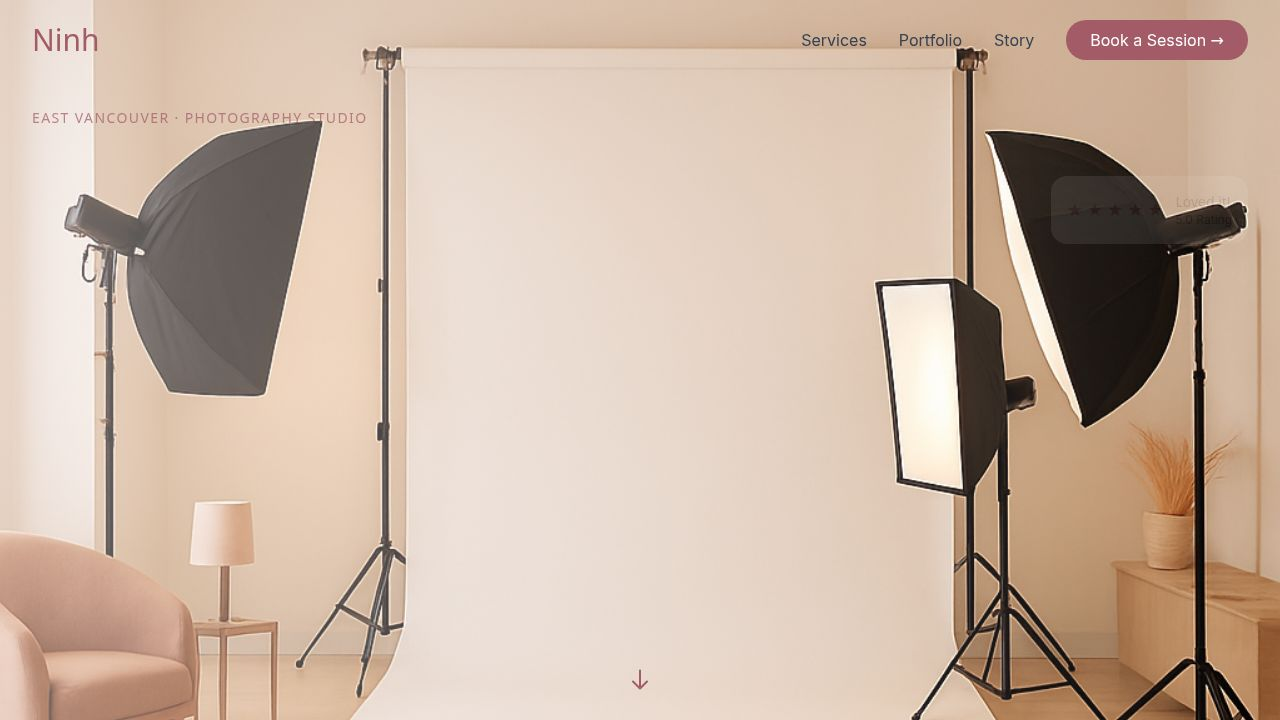
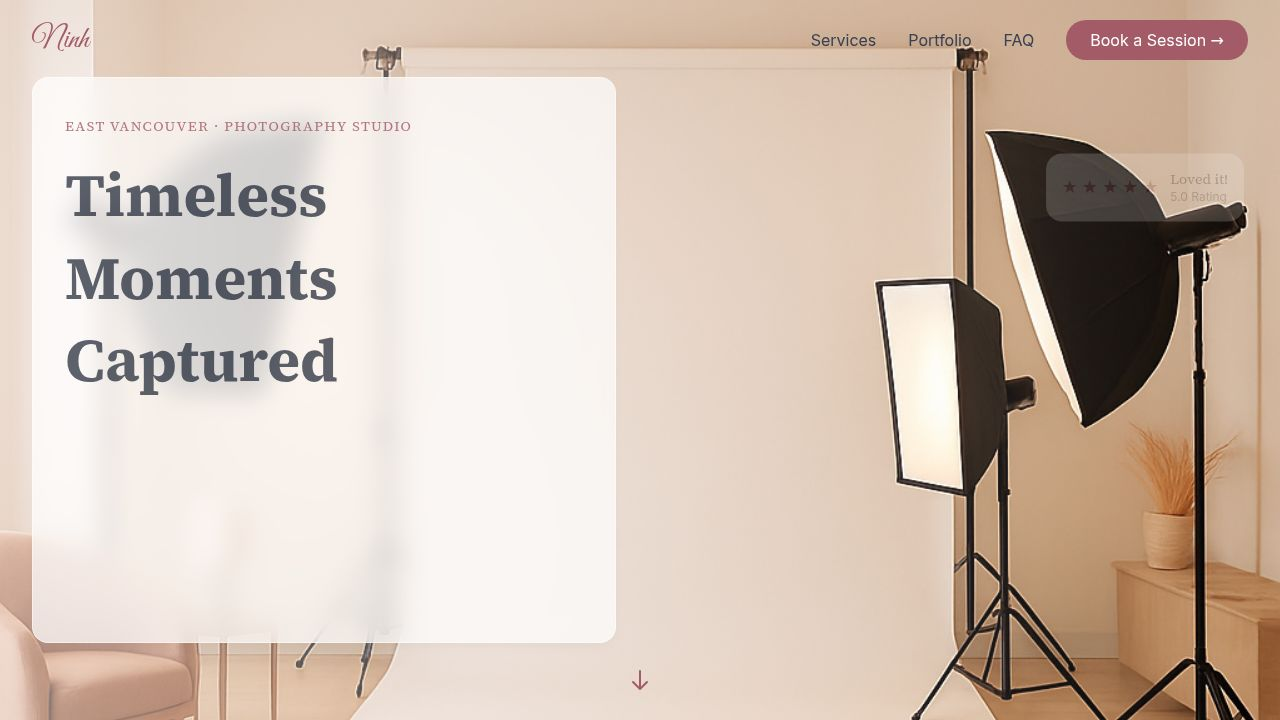
Improve hero section readability and add new content sections
Integrate "How It Works" and "FAQ" sections, enhance hero section's visual clarity with a frosted glass effect and adjusted typography, and update navigation links from "Story" to "FAQ".

Replit-Commit-Author: Agent
Replit-Commit-Session-Id: b865452f-30fb-4e5b-b179-8529b5a454c2
Replit-Commit-Checkpoint-Type: full_checkpoint
Replit-Commit-Event-Id: fed2d3ec-1cab-4ece-8e77-192494f4eb0c
Replit-Commit-Screenshot-Url: https://storage.googleapis.com/screenshot-production-us-central1/e88b9254-c35e-4ace-a5ce-0fc161e2d8ee/b865452f-30fb-4e5b-b179-8529b5a454c2/LNhC5Pv
Replit-Helium-Checkpoint-Created: true

diff --git a/artifacts/ninh-studio/src/components/sections/HowItWorks.tsx b/artifacts/ninh-studio/src/components/sections/HowItWorks.tsx
@@ -1,0 +1,97 @@
+import { motion } from 'framer-motion'
+import { staggerContainerVariants, fadeInVariants } from '@/lib/animations'
+
+const steps = [
+  {
+    number: '01',
+    title: 'Book Your Session',
+    description:
+      'Choose your session type and date through our contact form. We will confirm within 24 hours and send a prep guide.',
+    icon: (
+      <svg className="w-8 h-8" fill="none" stroke="currentColor" viewBox="0 0 24 24">
+        <path strokeLinecap="round" strokeLinejoin="round" strokeWidth={1.5} d="M8 7V3m8 4V3m-9 8h10M5 21h14a2 2 0 002-2V7a2 2 0 00-2-2H5a2 2 0 00-2 2v12a2 2 0 002 2z" />
+      </svg>
+    ),
+  },
+  {
+    number: '02',
+    title: 'The Photo Session',
+    description:
+      'Arrive at our East Vancouver studio. We will handle lighting, direction, and styling so you can relax and be yourself.',
+    icon: (
+      <svg className="w-8 h-8" fill="none" stroke="currentColor" viewBox="0 0 24 24">
+        <path strokeLinecap="round" strokeLinejoin="round" strokeWidth={1.5} d="M3 9a2 2 0 012-2h.93a2 2 0 001.664-.89l.812-1.22A2 2 0 0110.07 4h3.86a2 2 0 011.664.89l.812 1.22A2 2 0 0018.07 7H19a2 2 0 012 2v9a2 2 0 01-2 2H5a2 2 0 01-2-2V9z" />
+        <path strokeLinecap="round" strokeLinejoin="round" strokeWidth={1.5} d="M15 13a3 3 0 11-6 0 3 3 0 016 0z" />
+      </svg>
+    ),
+  },
+  {
+    number: '03',
+    title: 'Your Gallery',
+    description:
+      'Receive professionally edited high-resolution photos within 5–7 days. Download, share, and print directly from your private gallery.',
+    icon: (
+      <svg className="w-8 h-8" fill="none" stroke="currentColor" viewBox="0 0 24 24">
+        <path strokeLinecap="round" strokeLinejoin="round" strokeWidth={1.5} d="M4 16l4.586-4.586a2 2 0 012.828 0L16 16m-2-2l1.586-1.586a2 2 0 012.828 0L20 14m-6-6h.01M6 20h12a2 2 0 002-2V6a2 2 0 00-2-2H6a2 2 0 00-2 2v12a2 2 0 002 2z" />
+      </svg>
+    ),
+  },
+]
+
+export function HowItWorks() {
+  return (
+    <section id="process" className="py-20 bg-canvas-white">
+      <div className="max-w-7xl mx-auto px-4 sm:px-6 lg:px-8">
+        <motion.div
+          initial={{ opacity: 0, y: 20 }}
+          whileInView={{ opacity: 1, y: 0 }}
+          transition={{ duration: 0.8 }}
+          viewport={{ once: true }}
+          className="text-center mb-16"
+        >
+          <h2 className="text-4xl sm:text-5xl font-serif font-bold text-gray-900 mb-4">
+            How It Works
+          </h2>
+          <p className="text-lg text-gray-600 max-w-2xl mx-auto">
+            Three simple steps from booking to your final photos
+          </p>
+        </motion.div>
+
+        <motion.div
+          variants={staggerContainerVariants}
+          initial="hidden"
+          whileInView="visible"
+          viewport={{ once: true }}
+          className="grid grid-cols-1 md:grid-cols-3 gap-8 relative"
+        >
+          {/* connector line on desktop */}
+          <div className="hidden md:block absolute top-24 left-[16.66%] right-[16.66%] h-px bg-accent-rose/30" />
+
+          {steps.map((step) => (
+            <motion.div
+              key={step.number}
+              variants={fadeInVariants}
+              className="relative text-center"
+            >
+              <div className="inline-flex items-center justify-center w-16 h-16 rounded-full bg-accent-rose text-white mb-6">
+                {step.icon}
+              </div>
+
+              <div className="inline-block px-3 py-1 mb-4 text-sm font-serif text-accent-rose bg-accent-rose/10 rounded-full">
+                Step {step.number}
+              </div>
+
+              <h3 className="text-2xl font-serif font-bold text-gray-900 mb-3">
+                {step.title}
+              </h3>
+
+              <p className="text-gray-600 leading-relaxed max-w-sm mx-auto">
+                {step.description}
+              </p>
+            </motion.div>
+          ))}
+        </motion.div>
+      </div>
+    </section>
+  )
+}

diff --git a/artifacts/ninh-studio/src/components/sections/FAQ.tsx b/artifacts/ninh-studio/src/components/sections/FAQ.tsx
@@ -1,0 +1,76 @@
+import { useState } from 'react'
+import { motion, AnimatePresence } from 'framer-motion'
+import { FAQ_ITEMS } from '@/lib/constants'
+
+export function FAQ() {
+  const [openIndex, setOpenIndex] = useState<number | null>(null)
+
+  const toggle = (index: number) => {
+    setOpenIndex(openIndex === index ? null : index)
+  }
+
+  return (
+    <section id="faq" className="py-20 bg-canvas-ivory">
+      <div className="max-w-3xl mx-auto px-4 sm:px-6 lg:px-8">
+        <motion.div
+          initial={{ opacity: 0, y: 20 }}
+          whileInView={{ opacity: 1, y: 0 }}
+          transition={{ duration: 0.8 }}
+          viewport={{ once: true }}
+          className="text-center mb-16"
+        >
+          <h2 className="text-4xl sm:text-5xl font-serif font-bold text-gray-900 mb-4">
+            Frequently Asked Questions
+          </h2>
+          <p className="text-lg text-gray-600">
+            Everything you need to know before booking
+          </p>
+        </motion.div>
+
+        <div className="space-y-4">
+          {FAQ_ITEMS.map((item, index) => (
+            <motion.div
+              key={index}
+              initial={{ opacity: 0, y: 10 }}
+              whileInView={{ opacity: 1, y: 0 }}
+              transition={{ duration: 0.4, delay: index * 0.1 }}
+              viewport={{ once: true }}
+              className="bg-white rounded-lg shadow-sm overflow-hidden"
+            >
+              <button
+                onClick={() => toggle(index)}
+                className="w-full flex items-center justify-between p-6 text-left hover:bg-gray-50 transition-colors"
+              >
+                <span className="font-serif font-bold text-lg text-gray-900 pr-4">
+                  {item.question}
+                </span>
+                <span
+                  className={`flex-shrink-0 text-accent-rose text-2xl transition-transform duration-300 ${
+                    openIndex === index ? 'rotate-45' : ''
+                  }`}
+                >
+                  +
+                </span>
+              </button>
+
+              <AnimatePresence>
+                {openIndex === index && (
+                  <motion.div
+                    initial={{ height: 0, opacity: 0 }}
+                    animate={{ height: 'auto', opacity: 1 }}
+                    exit={{ height: 0, opacity: 0 }}
+                    transition={{ duration: 0.3, ease: 'easeInOut' }}
+                  >
+                    <div className="px-6 pb-6 text-gray-600 leading-relaxed">
+                      {item.answer}
+                    </div>
+                  </motion.div>
+                )}
+              </AnimatePresence>
+            </motion.div>
+          ))}
+        </div>
+      </div>
+    </section>
+  )
+}

diff --git a/artifacts/ninh-studio/src/lib/constants.ts b/artifacts/ninh-studio/src/lib/constants.ts
@@ -72,3 +72,30 @@ export const PORTFOLIO_IMAGES = [
   { id: 5, alt: 'Professional headshots', title: 'Headshots' },
   { id: 6, alt: 'Creative photography', title: 'Creative Concepts' },
 ]
+
+export const FAQ_ITEMS = [
+  {
+    question: 'How far in advance should I book?',
+    answer: 'We recommend booking at least 2–3 weeks in advance, especially for weekends and holidays. Last-minute sessions can sometimes be accommodated depending on availability.',
+  },
+  {
+    question: 'How many photos will I receive?',
+    answer: 'Each session includes a curated gallery of 15–25 professionally edited high-resolution images. You can purchase additional edits or extended galleries if desired.',
+  },
+  {
+    question: 'How long until I receive my photos?',
+    answer: 'Standard turnaround is 5–7 business days. Rush delivery (48 hours) is available for an additional fee.',
+  },
+  {
+    question: 'Can I bring outfit changes?',
+    answer: 'Absolutely. Most sessions allow 2–3 outfit changes. The studio has a private changing area and full-length mirror. We will discuss wardrobe options during your pre-session consultation.',
+  },
+  {
+    question: 'Do you provide hair and makeup?',
+    answer: 'Hair and makeup services are available as an add-on for $75. We partner with a professional MUA who can meet you at the studio 30 minutes before your session.',
+  },
+  {
+    question: 'What is your cancellation policy?',
+    answer: 'Rescheduling is free with 48 hours notice. Cancellations within 48 hours forfeit the 50% deposit. We understand life happens, so we will always try to find an alternative date.',
+  },
+]

diff --git a/artifacts/ninh-studio/src/components/sections/HeroSection.tsx b/artifacts/ninh-studio/src/components/sections/HeroSection.tsx
@@ -1,5 +1,5 @@
 import { motion } from 'framer-motion'
-import { textRevealVariants, staggerContainerVariants, kenBurnsVariants, clipPathRevealVariants } from '@/lib/animations'
+import { textRevealVariants, staggerContainerVariants, kenBurnsVariants, fadeInVariants } from '@/lib/animations'
 
 export function HeroSection() {
   const scrollToSection = (sectionId: string) => {
@@ -27,8 +27,7 @@ export function HeroSection() {
         />
       </motion.div>
 
-      <div className="absolute inset-0 bg-gradient-to-r from-canvas-blush/60 to-transparent z-10" />
-      <div className="absolute inset-0 bg-gradient-to-t from-black/25 via-transparent to-transparent z-10" />
+      <div className="absolute inset-0 bg-gradient-to-r from-canvas-blush/50 via-canvas-blush/20 to-transparent z-10" />
 
       <div className="relative z-20 h-full flex items-center">
         <div className="max-w-7xl mx-auto px-4 sm:px-6 lg:px-8 w-full">
@@ -37,16 +36,16 @@ export function HeroSection() {
               variants={staggerContainerVariants}
               initial="hidden"
               animate="visible"
-              className="flex flex-col justify-center space-y-6"
+              className="flex flex-col justify-center space-y-6 bg-white/70 backdrop-blur-md p-6 sm:p-8 rounded-2xl shadow-xl border border-white/50 w-full"
             >
               <motion.div variants={textRevealVariants}>
-                <p className="text-sm font-serif tracking-widest text-accent-rose uppercase drop-shadow-[0_1px_4px_rgba(255,255,255,0.8)]">
+                <p className="text-sm font-serif tracking-widest text-accent-rose uppercase">
                   East Vancouver · Photography Studio
                 </p>
               </motion.div>
 
-              <motion.div variants={clipPathRevealVariants}>
-                <h1 className="text-5xl sm:text-6xl lg:text-7xl font-serif font-bold leading-tight text-gray-900 drop-shadow-[0_2px_12px_rgba(255,255,255,0.9)]">
+              <motion.div variants={fadeInVariants}>
+                <h1 className="text-4xl sm:text-5xl lg:text-6xl font-serif font-bold leading-snug text-gray-900">
                   Timeless
                   <br />
                   Moments
@@ -55,7 +54,7 @@ export function HeroSection() {
                 </h1>
               </motion.div>
 
-              <motion.p variants={textRevealVariants} className="text-lg text-gray-700 max-w-md drop-shadow-[0_1px_8px_rgba(255,255,255,0.7)]">
+              <motion.p variants={textRevealVariants} className="text-lg text-gray-700 max-w-lg">
                 Professional photography sessions that celebrate your unique story. From fashion to family, we capture the essence of every moment.
               </motion.p>
 

diff --git a/artifacts/ninh-studio/src/components/sections/Navigation.tsx b/artifacts/ninh-studio/src/components/sections/Navigation.tsx
@@ -57,10 +57,10 @@ export function Navigation() {
               Portfolio
             </button>
             <button
-              onClick={() => scrollToSection('story')}
+              onClick={() => scrollToSection('faq')}
               className="text-gray-700 hover:text-accent-rose transition-colors"
             >
-              Story
+              FAQ
             </button>
             <button
               onClick={() => scrollToSection('contact')}
@@ -108,10 +108,10 @@ export function Navigation() {
               Portfolio
             </button>
             <button
-              onClick={() => scrollToSection('story')}
+              onClick={() => scrollToSection('faq')}
               className="block w-full text-left py-2 text-gray-700 hover:text-accent-rose"
             >
-              Story
+              FAQ
             </button>
             <button
               onClick={() => scrollToSection('contact')}

diff --git a/artifacts/ninh-studio/src/App.tsx b/artifacts/ninh-studio/src/App.tsx
@@ -3,10 +3,12 @@ import { IntroSplash } from '@/components/sections/IntroSplash'
 import { Navigation } from '@/components/sections/Navigation'
 import { HeroSection } from '@/components/sections/HeroSection'
 import { TrustBar } from '@/components/sections/TrustBar'
+import { HowItWorks } from '@/components/sections/HowItWorks'
 import { ServicesGrid } from '@/components/sections/ServicesGrid'
 import { PortfolioGrid } from '@/components/sections/PortfolioGrid'
 import { Marquee } from '@/components/sections/Marquee'
 import { ReviewsSection } from '@/components/sections/ReviewsSection'
+import { FAQ } from '@/components/sections/FAQ'
 import { StudioStory } from '@/components/sections/StudioStory'
 import { ContactForm } from '@/components/sections/ContactForm'
 import { GoogleMap } from '@/components/sections/GoogleMap'
@@ -23,10 +25,12 @@ function App() {
           <Navigation />
           <HeroSection />
           <TrustBar />
+          <HowItWorks />
           <ServicesGrid />
           <PortfolioGrid />
           <Marquee />
           <ReviewsSection />
+          <FAQ />
           <StudioStory />
           <ContactForm />
           <GoogleMap />

diff --git a/artifacts/ninh-studio/src/lib/animations.ts b/artifacts/ninh-studio/src/lib/animations.ts
@@ -1,6 +1,6 @@
 import { Variants } from 'framer-motion'
 
-export const easeOutExpo = [0.16, 1, 0.3, 1]
+export const easeOutExpo: [number, number, number, number] = [0.16, 1, 0.3, 1]
 
 export const textRevealVariants: Variants = {
   hidden: { opacity: 0, y: 20 },